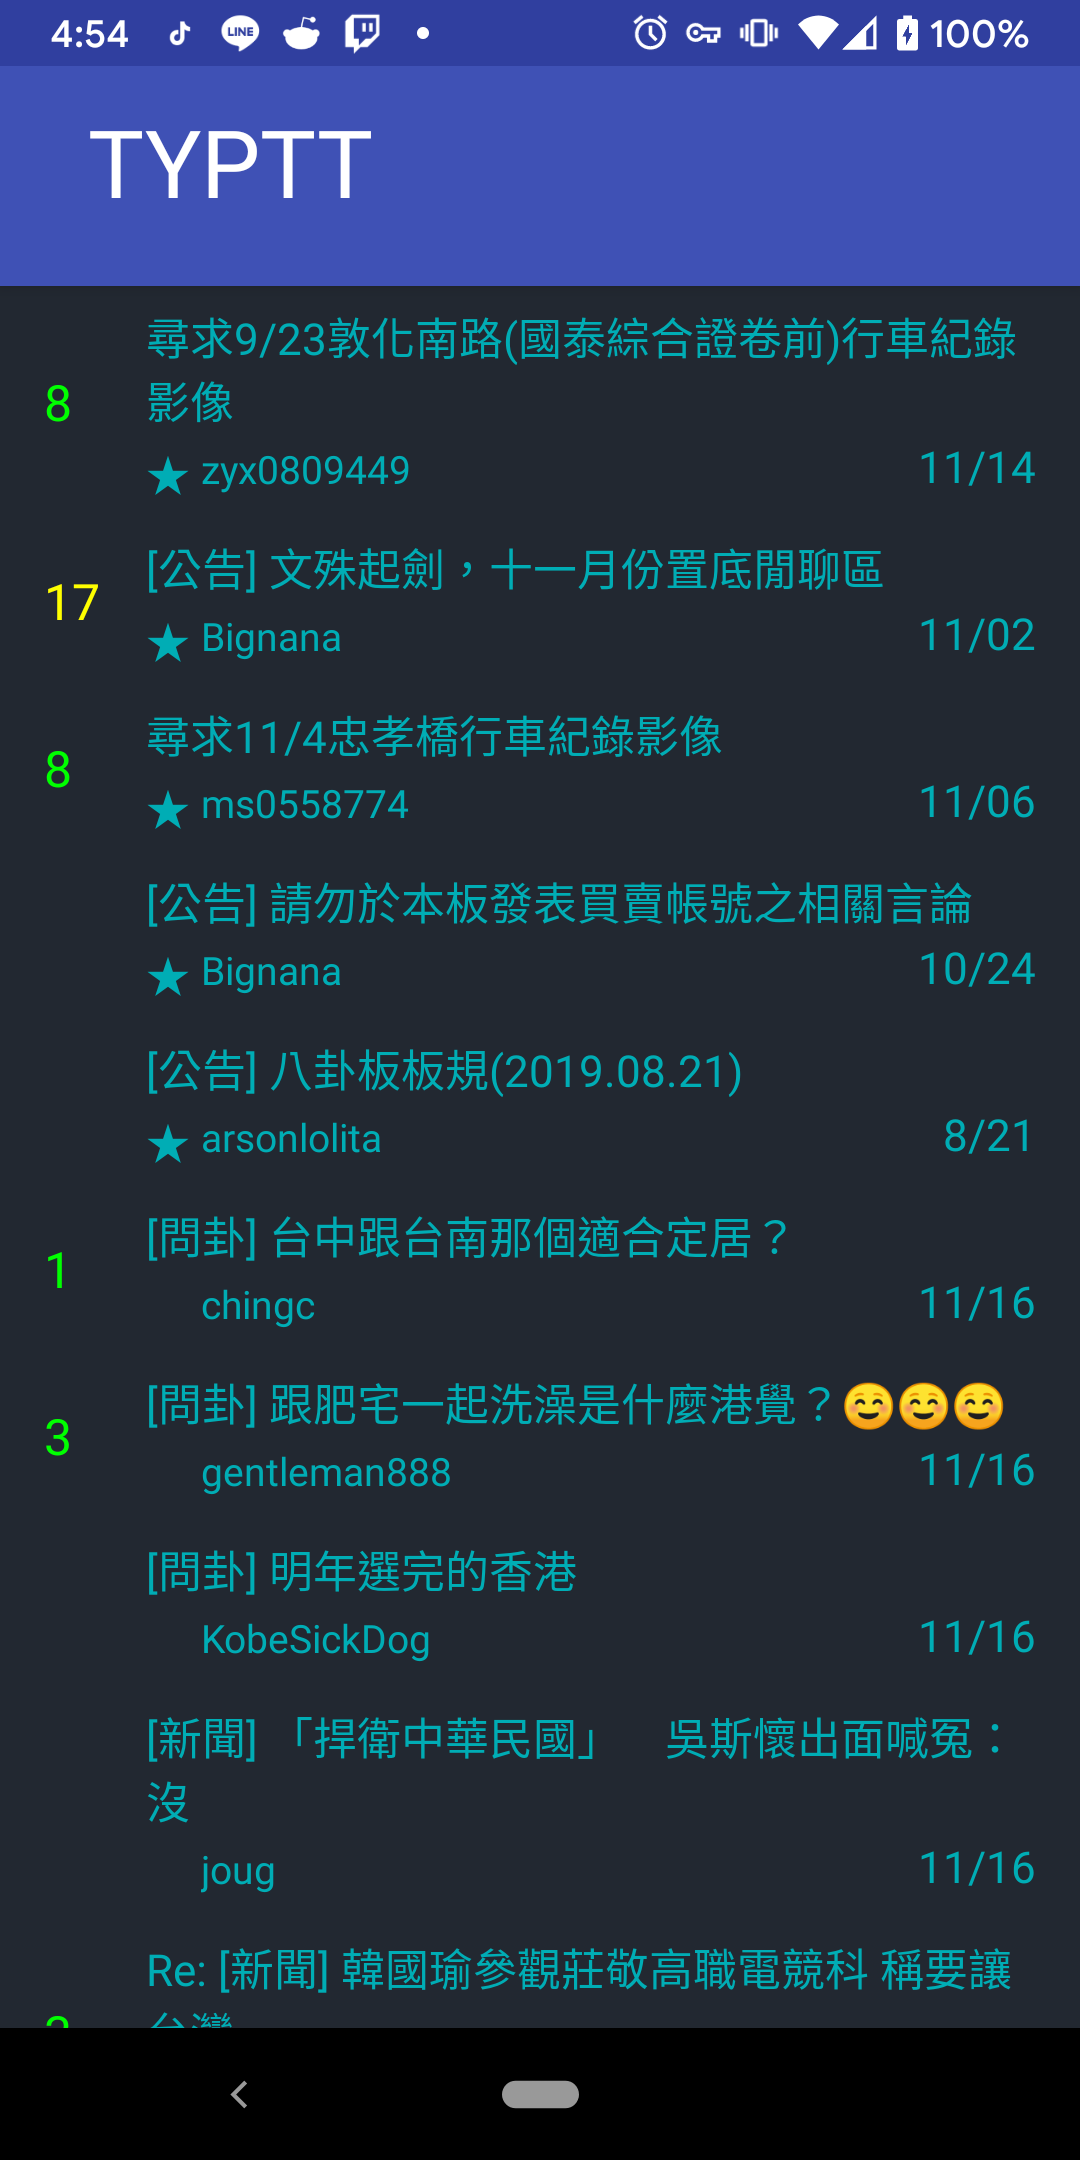
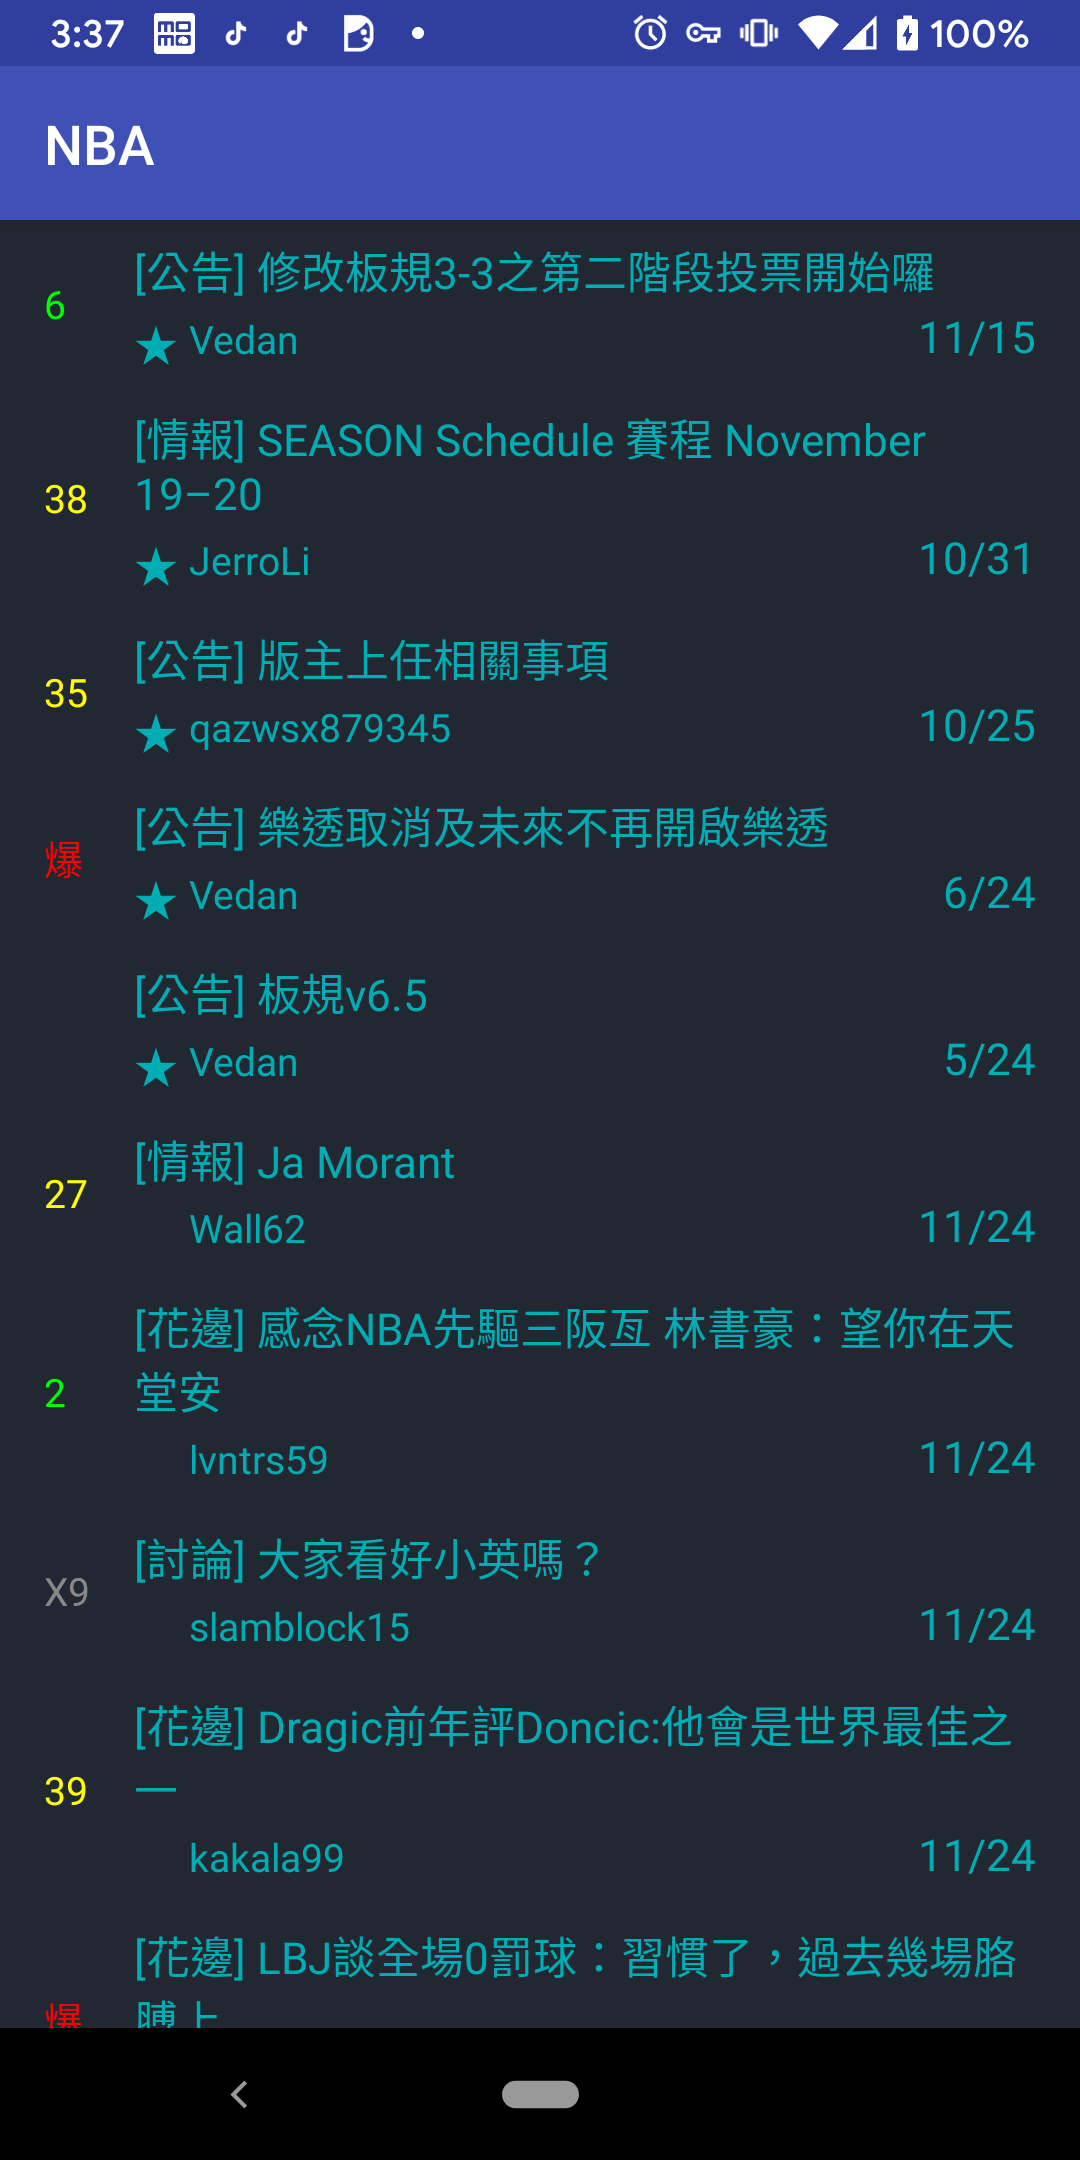
Fix toolbar and add layout change tranition

diff --git a/app/src/main/java/com/tonyyang/typtt/ui/hotboard/HotBoardFragment.kt b/app/src/main/java/com/tonyyang/typtt/ui/hotboard/HotBoardFragment.kt
@@ -5,12 +5,14 @@ import android.util.Log
 import android.view.LayoutInflater
 import android.view.View
 import android.view.ViewGroup
+import androidx.appcompat.app.AppCompatActivity
 import androidx.fragment.app.Fragment
 import androidx.lifecycle.Observer
 import androidx.lifecycle.ViewModelProviders
 import androidx.navigation.findNavController
 import androidx.recyclerview.widget.LinearLayoutManager
 import com.tonyyang.typtt.R
+import com.tonyyang.typtt.expandActionBar
 import com.tonyyang.typtt.model.HotBoard
 import com.tonyyang.typtt.viewmodel.HotBoardViewModel
 import kotlinx.android.synthetic.main.fragment_hotboard.*
@@ -32,9 +34,12 @@ class HotBoardFragment : Fragment() {
 
         override fun onItemClick(view: View, hotBoard: HotBoard) {
             Log.d(TAG, "onItemClick, view: $view, hotBoard: $hotBoard")
-            HotBoardFragmentDirections.actionHotBoardFragmentToBoardFragment(hotBoard.url).let {
-                view.findNavController().navigate(it)
-            }
+            HotBoardFragmentDirections.actionHotBoardFragmentToBoardFragment(
+                    hotBoard.name,
+                    hotBoard.url)
+                    .let {
+                        view.findNavController().navigate(it)
+                    }
         }
     }
 
@@ -45,6 +50,10 @@ class HotBoardFragment : Fragment() {
 
     override fun onViewCreated(view: View, savedInstanceState: Bundle?) {
         super.onViewCreated(view, savedInstanceState)
+        val act = (activity as AppCompatActivity)
+        act.expandActionBar {
+            title = getString(R.string.hot_board_name)
+        }
         recycler_view.apply {
             setHasFixedSize(true)
             layoutManager = LinearLayoutManager(activity)

diff --git a/app/src/main/java/com/tonyyang/typtt/ui/board/BoardFragment.kt b/app/src/main/java/com/tonyyang/typtt/ui/board/BoardFragment.kt
@@ -4,11 +4,13 @@ import android.os.Bundle
 import android.view.LayoutInflater
 import android.view.View
 import android.view.ViewGroup
+import androidx.appcompat.app.AppCompatActivity
 import androidx.fragment.app.Fragment
 import androidx.lifecycle.Observer
 import androidx.lifecycle.ViewModelProviders
 import androidx.recyclerview.widget.LinearLayoutManager
 import com.tonyyang.typtt.R
+import com.tonyyang.typtt.expandActionBar
 import com.tonyyang.typtt.model.Articles
 import com.tonyyang.typtt.repository.NetworkState
 import com.tonyyang.typtt.viewmodel.BoardViewModel
@@ -39,8 +41,13 @@ class BoardFragment : Fragment() {
 
     override fun onViewCreated(view: View, savedInstanceState: Bundle?) {
         super.onViewCreated(view, savedInstanceState)
-        val url = arguments?.let {
-            BoardFragmentArgs.fromBundle(it).url
+        val url = arguments?.run {
+            val bundle = BoardFragmentArgs.fromBundle(this)
+            val act = (activity as AppCompatActivity)
+            act.expandActionBar {
+                title = bundle.title
+            }
+            bundle.url
         } ?: ""
         recycler_view.apply {
             setHasFixedSize(true)

diff --git a/app/src/main/java/com/tonyyang/typtt/ui/MainActivity.kt b/app/src/main/java/com/tonyyang/typtt/ui/MainActivity.kt
@@ -2,16 +2,15 @@ package com.tonyyang.typtt.ui
 
 import android.os.Bundle
 import androidx.appcompat.app.AppCompatActivity
+import androidx.appcompat.widget.Toolbar
 import com.tonyyang.typtt.R
-import com.tonyyang.typtt.setupActionBar
+import kotlinx.android.synthetic.main.activity_main.*
 
 class MainActivity : AppCompatActivity() {
 
     override fun onCreate(savedInstanceState: Bundle?) {
         super.onCreate(savedInstanceState)
         setContentView(R.layout.activity_main)
-        setupActionBar(R.id.toolbar) {
-            setDisplayHomeAsUpEnabled(false)
-        }
+        setSupportActionBar(toolbar as Toolbar)
     }
 }

diff --git a/app/src/main/java/com/tonyyang/typtt/KotlinExtensions.kt b/app/src/main/java/com/tonyyang/typtt/KotlinExtensions.kt
@@ -1,6 +1,5 @@
 package com.tonyyang.typtt
 
-import androidx.annotation.IdRes
 import androidx.appcompat.app.ActionBar
 import androidx.appcompat.app.AppCompatActivity
 import io.reactivex.disposables.CompositeDisposable
@@ -10,8 +9,7 @@ fun Disposable.addTo(compositeDisposable: CompositeDisposable) {
     compositeDisposable.add(this)
 }
 
-fun AppCompatActivity.setupActionBar(@IdRes toolbarId: Int, action: ActionBar.() -> Unit) {
-    setSupportActionBar(findViewById(toolbarId))
+fun AppCompatActivity.expandActionBar(action: ActionBar.() -> Unit) {
     supportActionBar?.run {
         action()
     }
